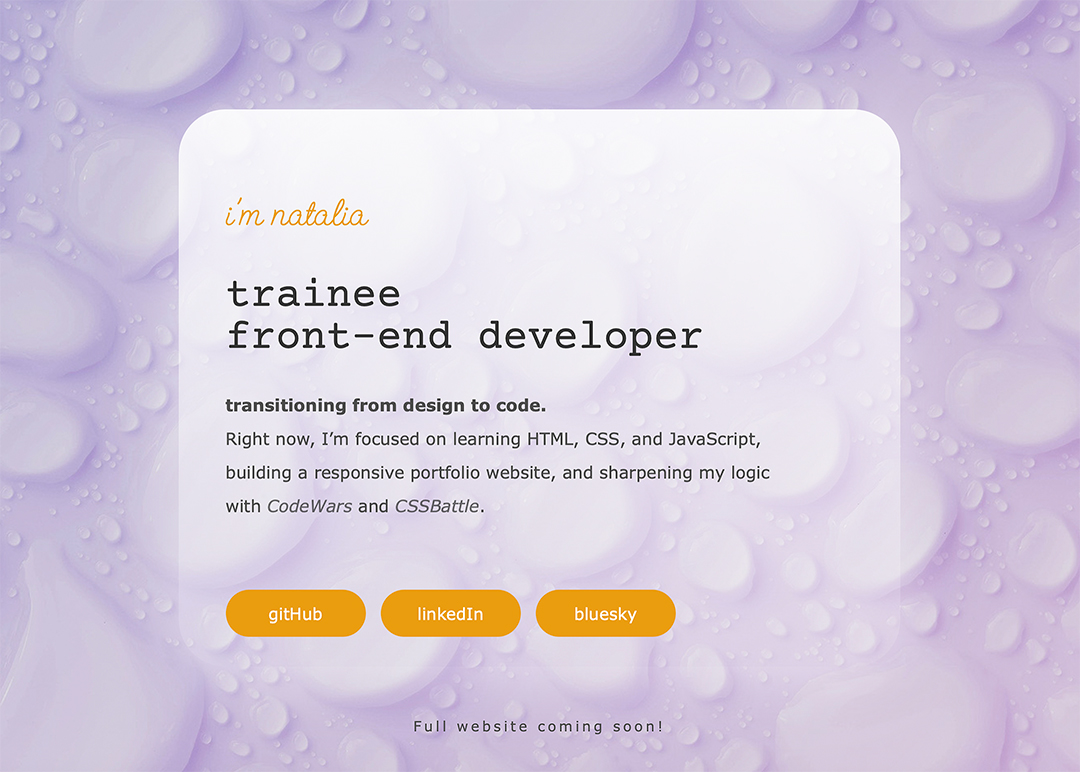
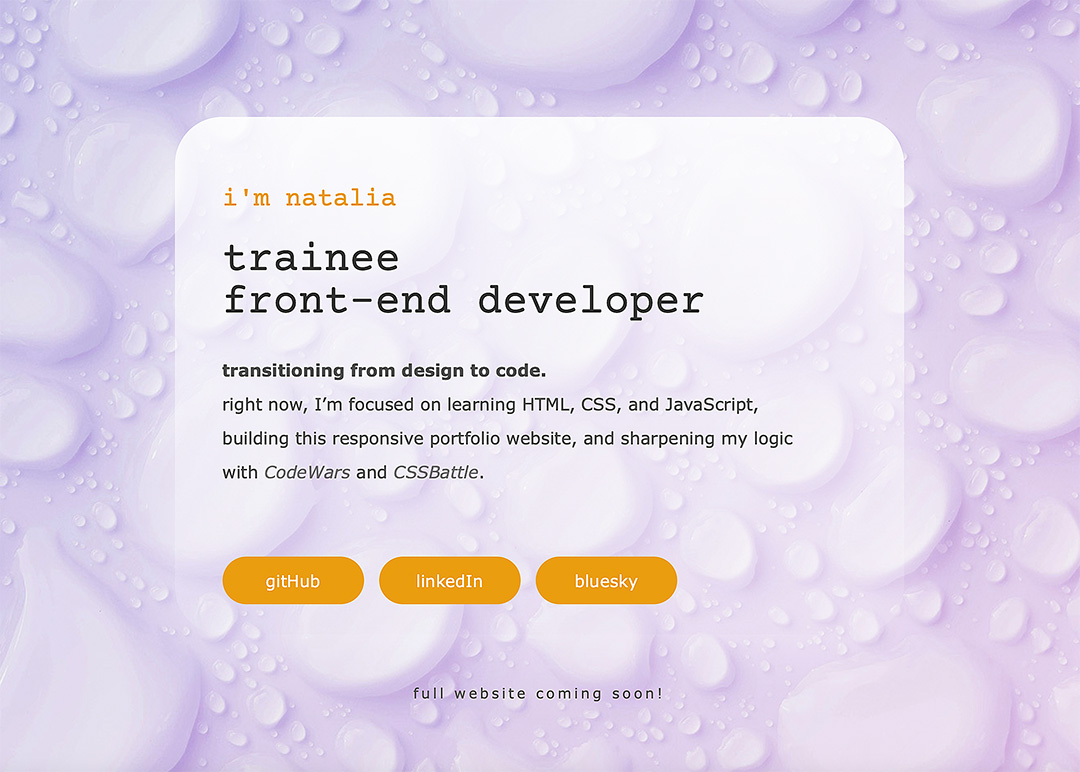
website update

diff --git a/index.html b/index.html
@@ -13,7 +13,7 @@
       <p>i'm natalia</p>
       <h1>trainee<br/> front-end developer</h1>
       <div class="bio">
-        <p><strong>transitioning from design to code.</strong><br/> Right now, I’m focused on learning HTML, CSS, and JavaScript, building this responsive portfolio website, and sharpening my logic with <a href="https://www.codewars.com/users/kolonatalie" target="_blank">CodeWars</a> and <a href="https://cssbattle.dev/player/kolonatalie" target="_blank">CSSBattle</a>.</p>
+        <p><strong>transitioning from design to code.</strong><br/> right now, I’m focused on learning HTML, CSS, and JavaScript, building this responsive portfolio website, and sharpening my logic with <a href="https://www.codewars.com/users/kolonatalie" target="_blank">CodeWars</a> and <a href="https://cssbattle.dev/player/kolonatalie" target="_blank">CSSBattle</a>.</p>
       </div>
       <ul class="social">
         <li><a href="https://github.com/kolonatalie" target="_blank">gitHub</a></li>
@@ -23,7 +23,7 @@
     </div>
 
     <footer>
-      <p>Full website coming soon!</p>
+      <p>full website coming soon!</p>
     </footer>
   </body>
 </html>

diff --git a/style.css b/style.css
@@ -66,8 +66,8 @@
 
     .container > :first-child {
       color: #ea9d0d;
-      font-family: "Send Flowers", cursive;
-      font-size: 40px;
+      font-family: "Courier Prime", monospace;
+      font-size: 28px;
     }
     h1 {
       font-size: 45px;
@@ -202,7 +202,7 @@
       }
       .container > :first-child {
         line-height: 1em;
-        font-size: 35px;
+        font-size: 1.5em;
       }
       .bio {
       width: 95%;

diff --git a/README.md b/README.md
@@ -3,7 +3,7 @@
 A minimalist and responsive personal portfolio website built with HTML and CSS.
 
 ## Features & Highlights
-- Custom fonts with Google Fonts (Courier Prime, Send Flowers)
+- Custom Google Font Courier Prime
 
 - Subtle background animation using @keyframes and linear-gradient
 
